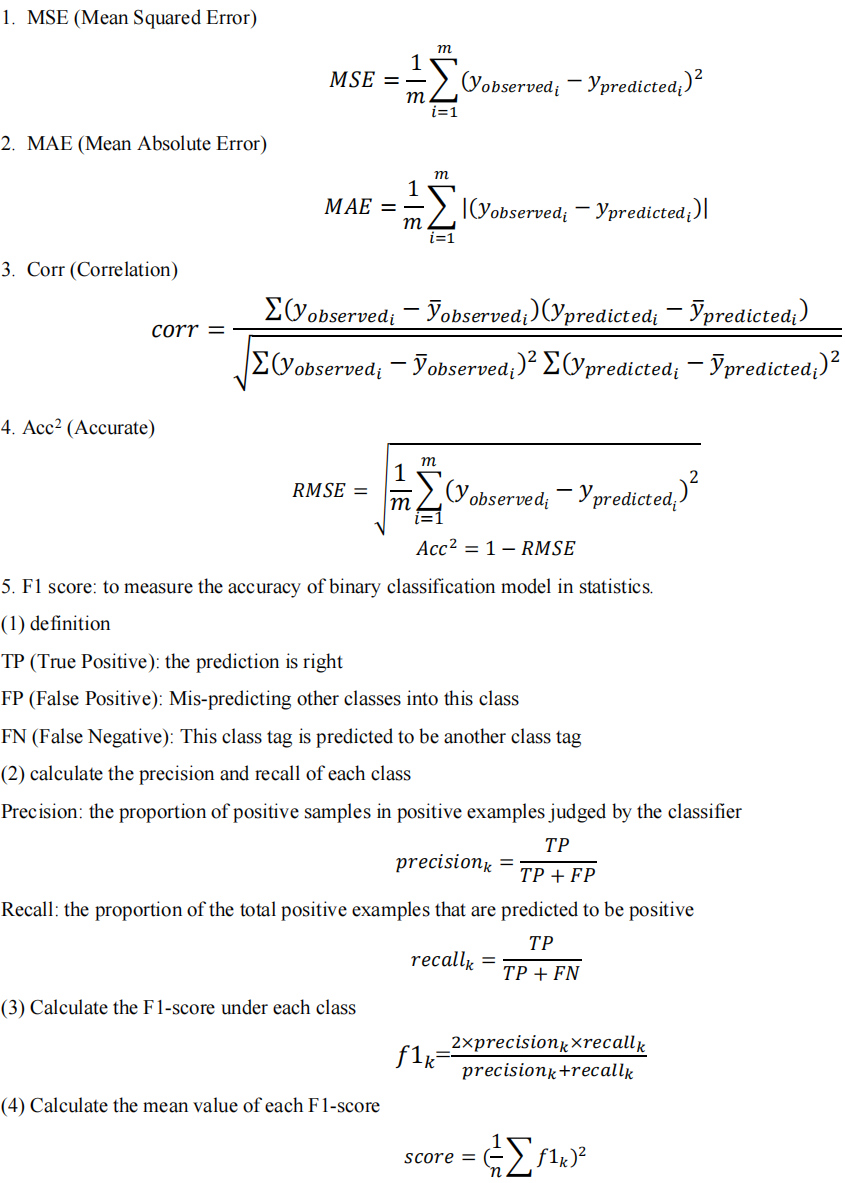
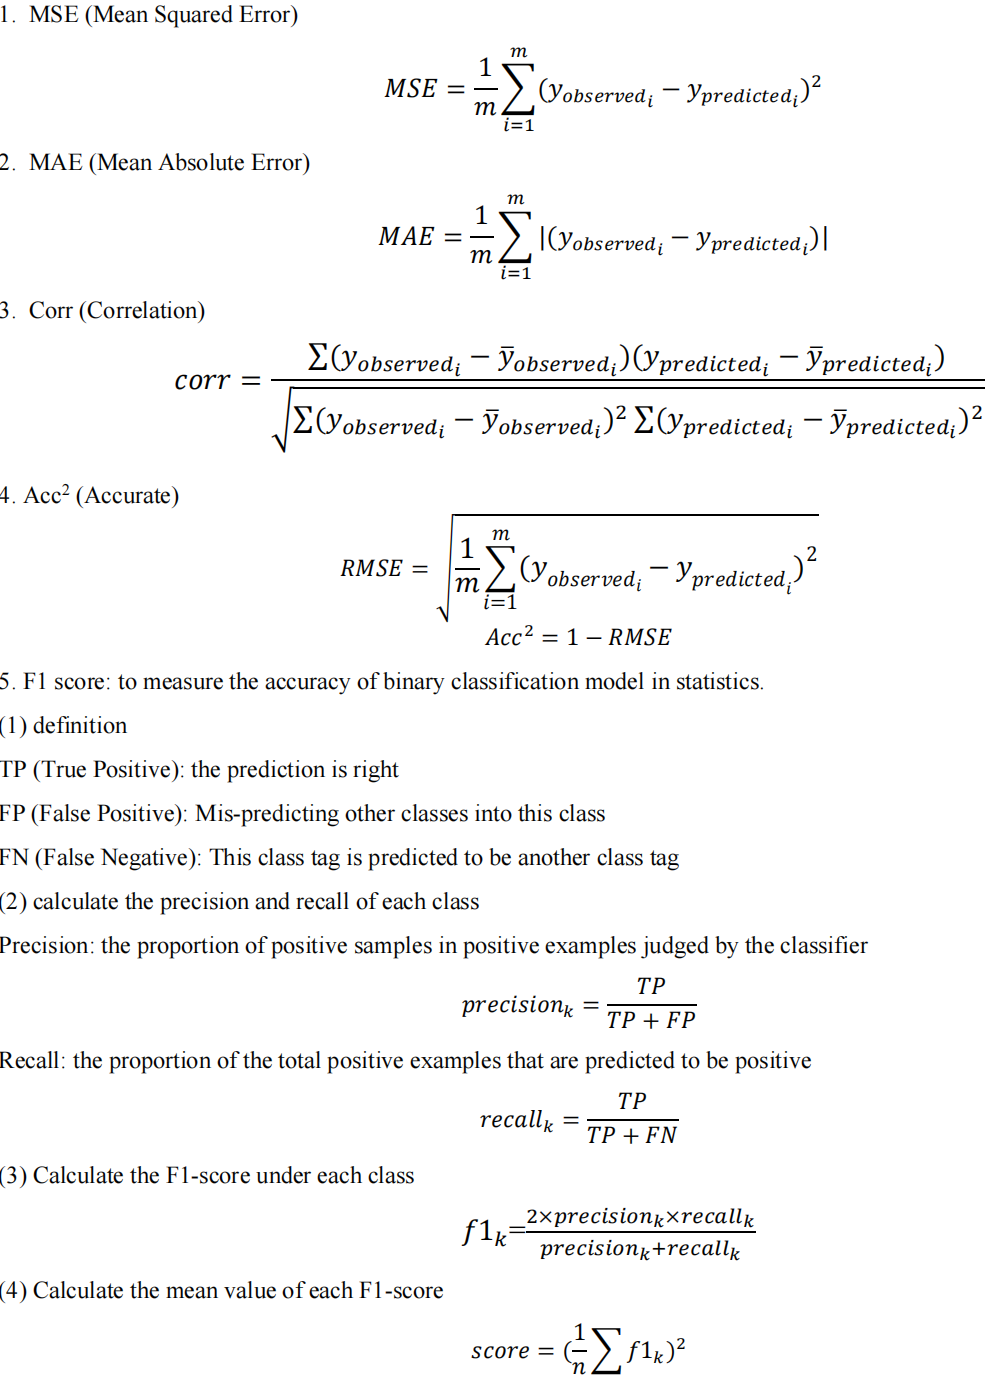
1

diff --git a/index.html b/index.html
@@ -234,7 +234,7 @@
 					</div>
 			<p>Notes: Definitions of the performance metrics Columns (f) through (i) are provided as below.</p>
 			<div class="img-model6">
-					<img src="media/7.png" alt="">
+					<img src="media/8.png" alt="">
 			</div>
 			<div class="img-model7" style="padding-bottom: 60px;">
 					<img src="media/8.png" alt="">
